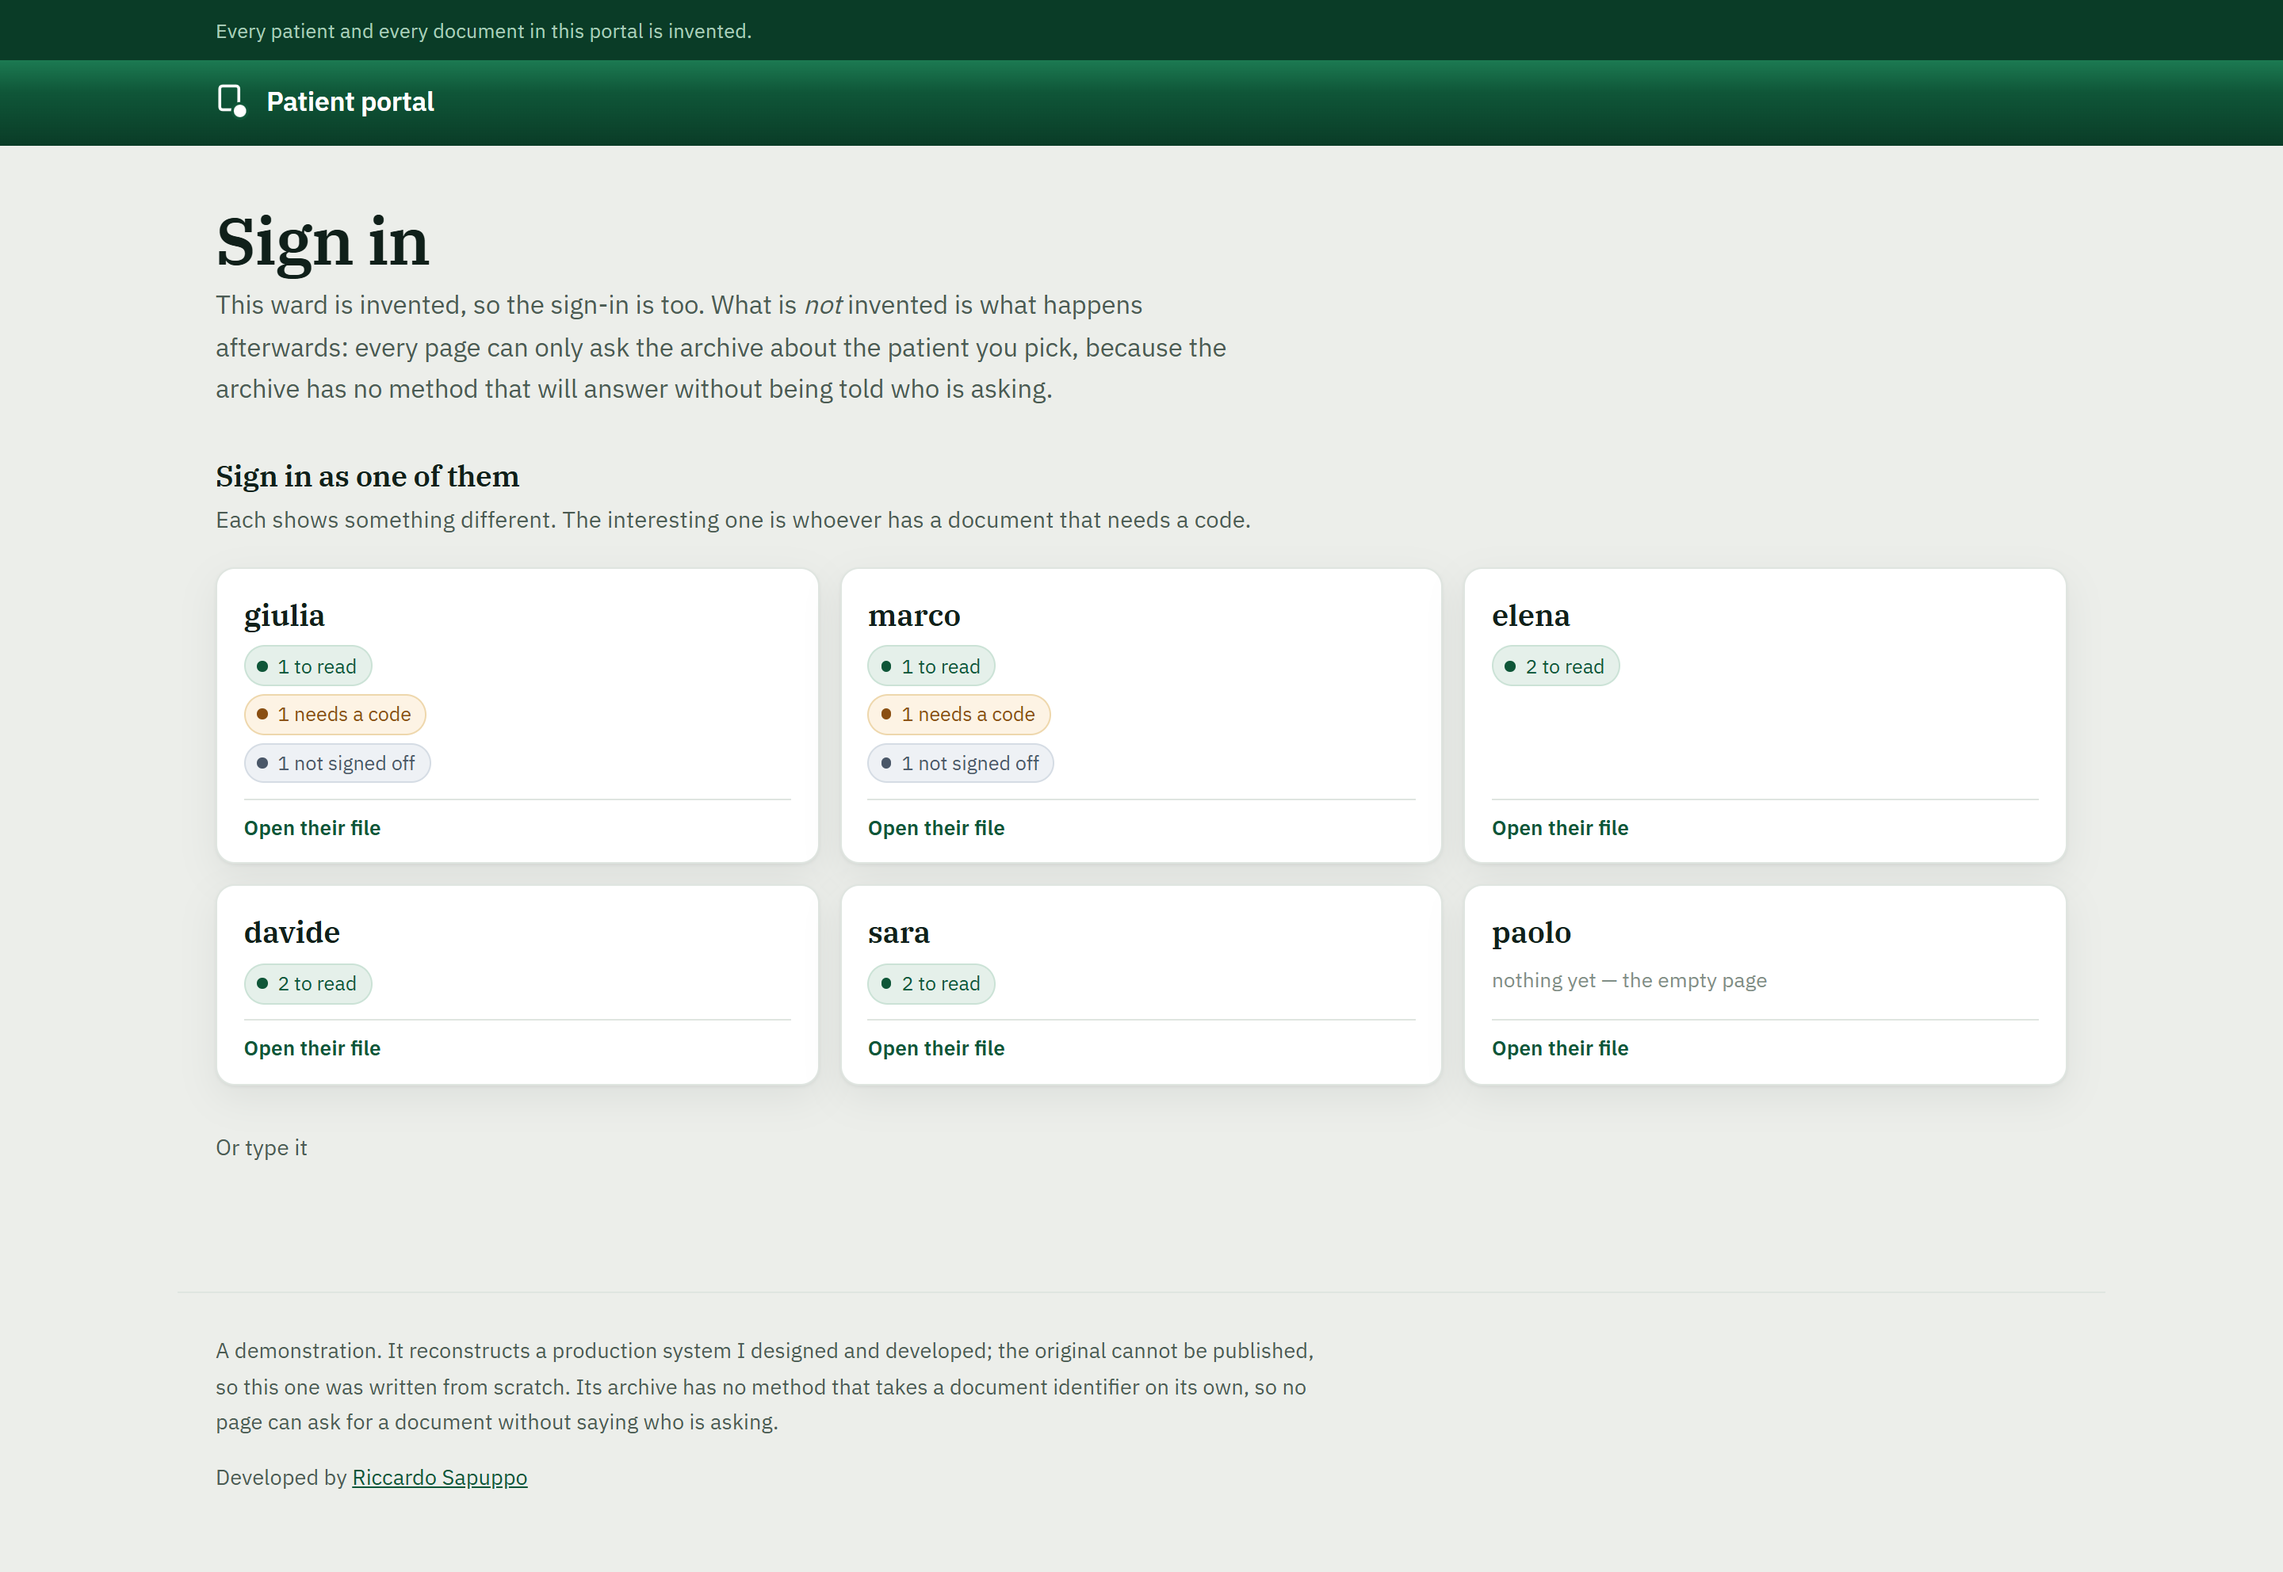
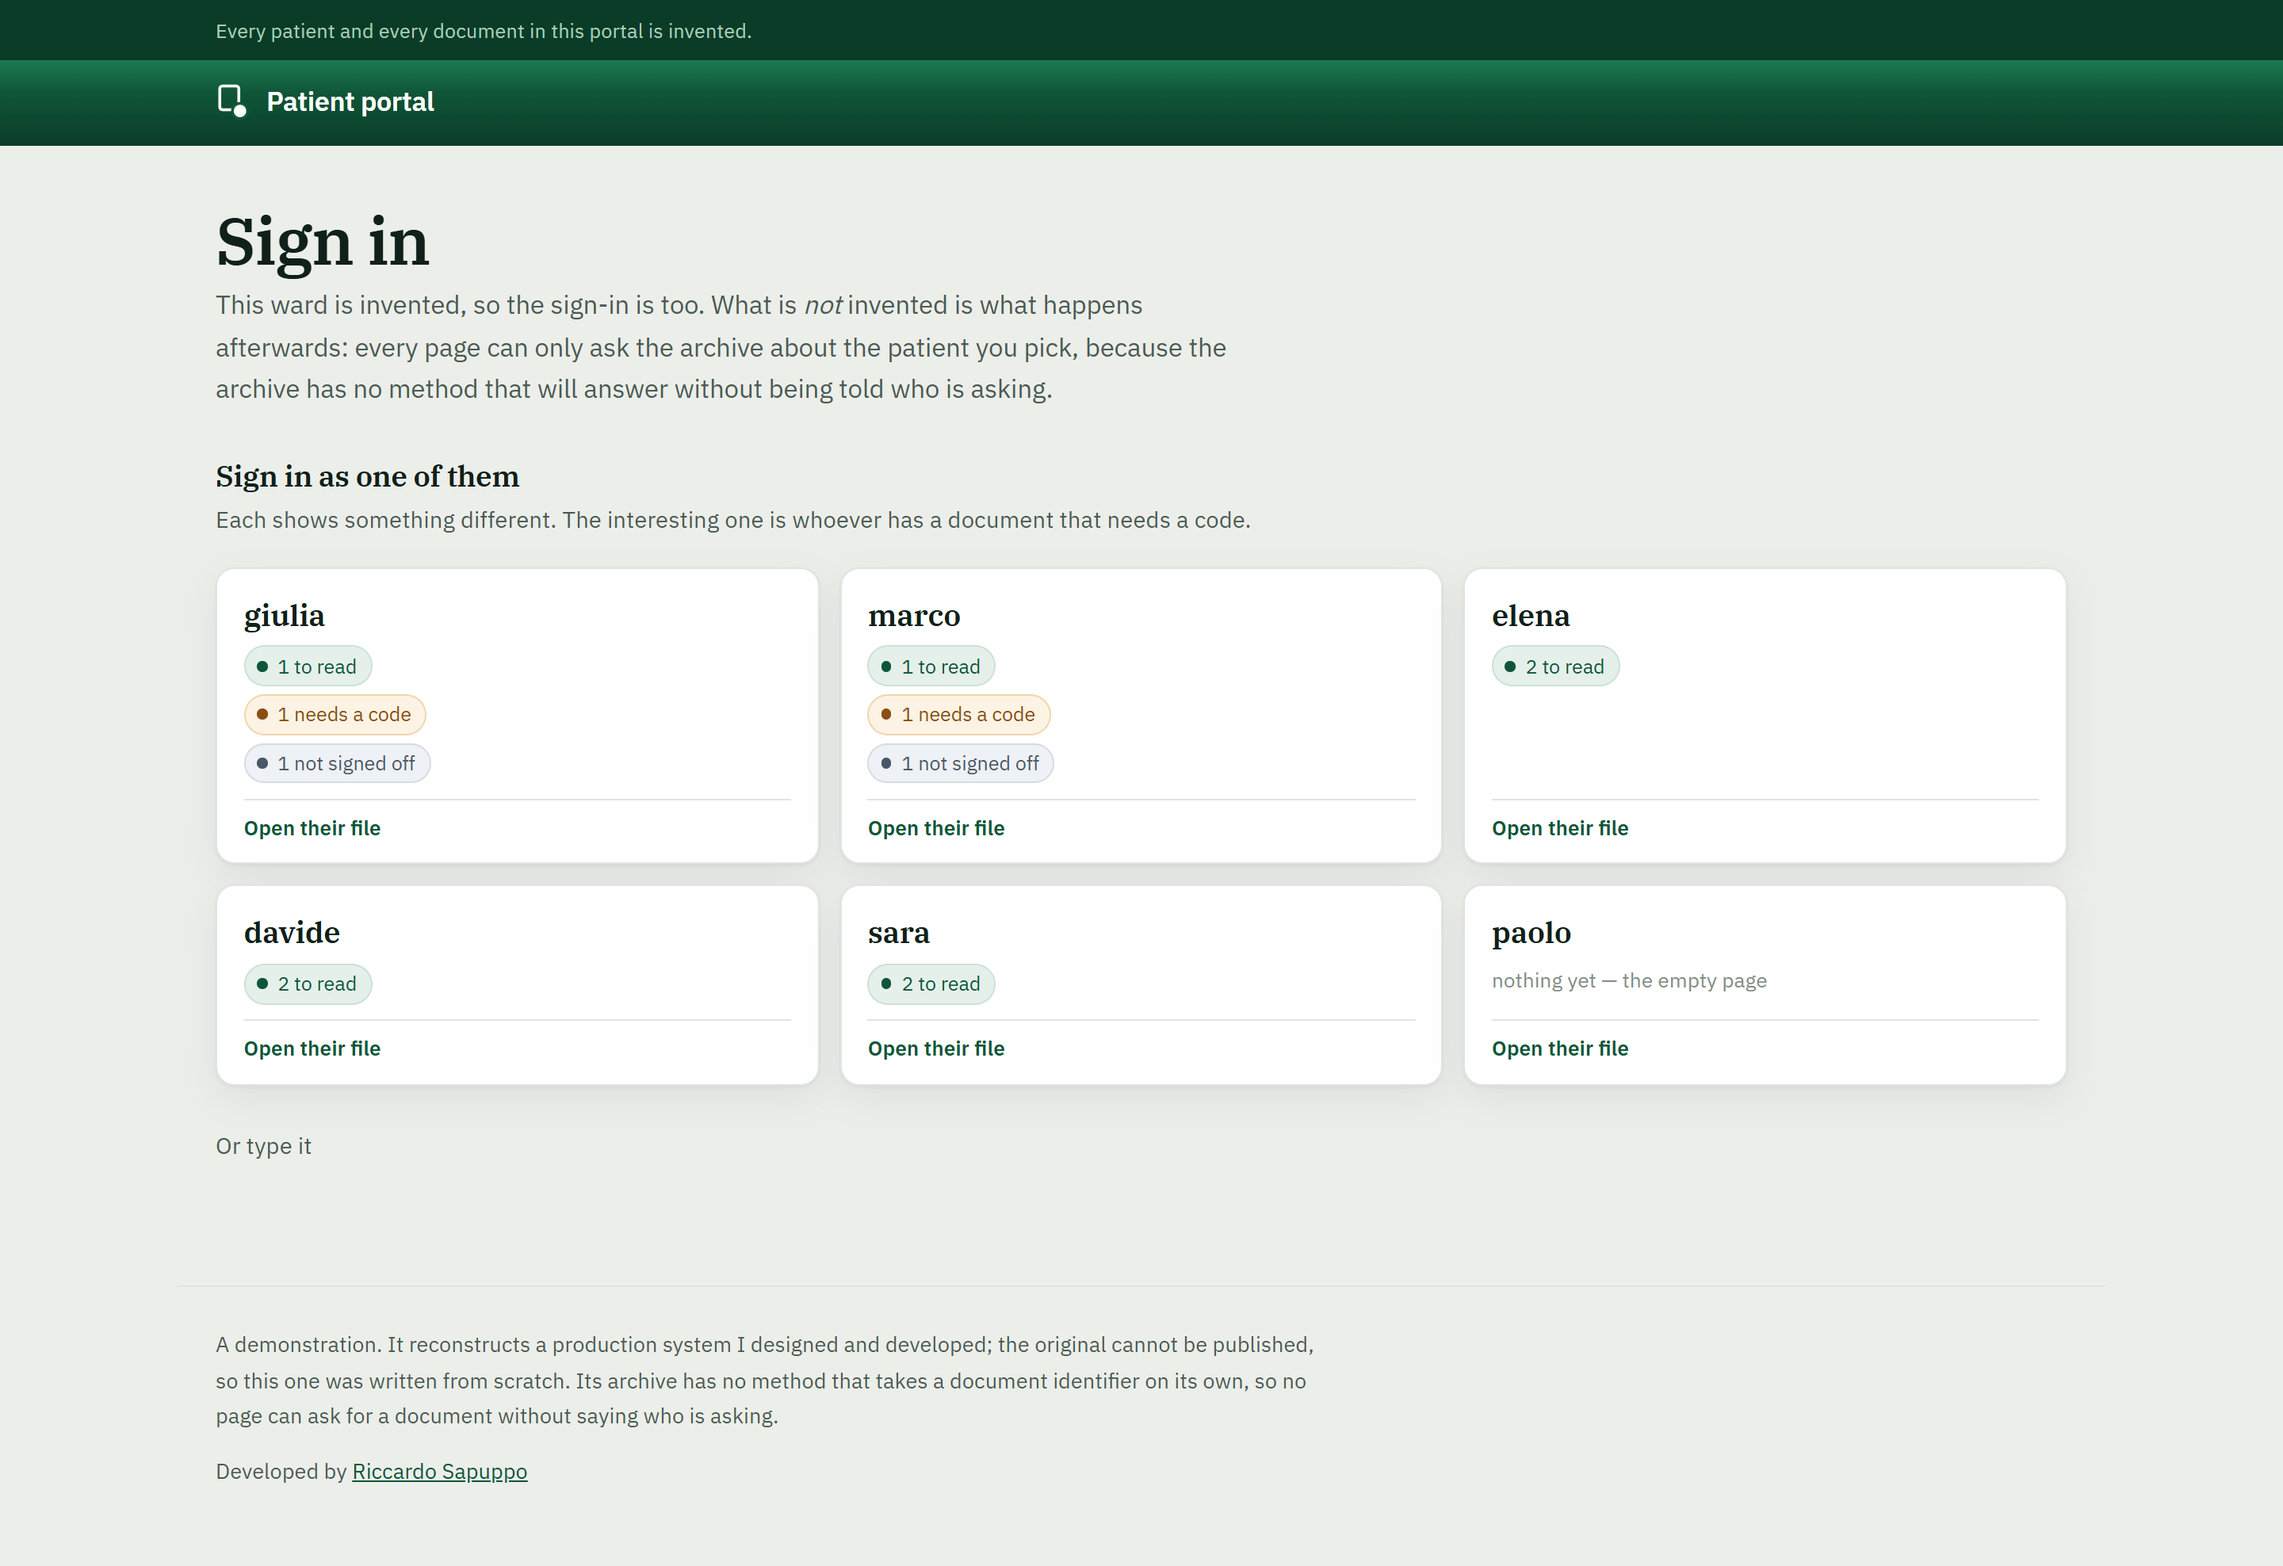
Or type it, behind a button -- but only once there is a script to open it
The typed sign-in was a disclosure triangle that pushed the page around when
it opened. It is a dialog now, arriving over the page with the form in it and
the select already focused: somebody who pressed "Or type it" has said what
they want to do, and the first thing to do is choose a patient.

The order it is written in is the whole of it. The markup ships the dialog
already open and the button hidden; the script closes the dialog and reveals
the button. Written the obvious way round -- a closed dialog and a visible
button -- a browser that never runs the script gets a dead control and no form
at all, and this is the form the checks drive, so losing it would take them
with it. A way in that depends on JavaScript having run is a way in somebody
does not have. With no script the dialog stays open and is given the card's
own frame, so it reads as part of the page rather than as something that
failed to close.

Both dialogs now arrive rather than appear, and it is the same movement for
both: a short rise and a fade, a fifth of a second, answering a press. Nothing
else in this portal moves on its own -- no entrances on scroll, nothing on
load. This is read by people who are worried, and movement they did not ask
for is one more thing to interpret. display and overlay are named in the
transition or the dialog is taken off the screen before the fade has anywhere
to happen, and prefers-reduced-motion turns the whole thing off.
[…]

diff --git a/src/Portal.Web/wwwroot/portal.css b/src/Portal.Web/wwwroot/portal.css
@@ -464,25 +464,176 @@ h1 {
     text-underline-offset: 2px;
 }
 
-/* The typed way, kept: the checks drive it, and so does anybody who wants to. */
-details.byhand {
-    margin-bottom: 1rem;
-}
+/* ── the typed way ───────────────────────────────────────────────────────── */
 
-details.byhand > summary {
-    display: inline-block;
-    cursor: pointer;
+/*
+    The way in for anybody who would rather type it, and for the checks, which
+    drive this form rather than the cards.
+
+    It is a quiet control and stays one: the cards are the way in, and this is
+    the thing beside them. Given a button of the portal's own green it would
+    compete with six cards for the same decision.
+*/
+.typed-open {
     /* Pulled back by its own padding, so the word starts on the page's edge. */
-    margin-left: -0.8rem;
+    margin: 0 0 1rem -0.8rem;
     padding: 0.4rem 0.8rem;
+    border: 0;
     border-radius: 6px;
-    font-size: 0.88rem;
+    background: none;
+    font: 0.92rem var(--ui);
     color: var(--ink-soft);
+    cursor: pointer;
 }
 
-details.byhand > summary:hover {
+.typed-open:hover {
     background: var(--raised);
     color: var(--ink);
+}
+
+.typed {
+    width: min(26rem, 94vw);
+    max-width: none;
+    padding: 0;
+    border: 0;
+    border-radius: 14px;
+    background: var(--card);
+    box-shadow: var(--lift-high);
+    overflow: hidden;
+}
+
+.typed-bar {
+    display: flex;
+    align-items: center;
+    justify-content: space-between;
+    gap: 1rem;
+    padding: 0.85rem 1.1rem;
+    background: var(--seal);
+    background-image: linear-gradient(180deg, var(--seal-lit) 0%, var(--seal) 100%);
+    color: #fff;
+}
+
+.typed-what {
+    font: 600 1.05rem/1.25 var(--read);
+    letter-spacing: -0.01em;
+}
+
+.typed-shut {
+    padding: 0.34rem 0.9rem;
+    font: 600 0.84rem var(--ui);
+    color: #fff;
+    background: rgb(255 255 255 / 12%);
+    border: 1px solid rgb(255 255 255 / 30%);
+    border-radius: 6px;
+    cursor: pointer;
+}
+
+.typed-shut:hover {
+    background: rgb(255 255 255 / 22%);
+}
+
+.typed-body {
+    padding: 1.2rem;
+}
+
+.typed-body form.stack {
+    margin: 0;
+    padding: 0;
+    max-width: none;
+    border: 0;
+    background: none;
+    box-shadow: none;
+}
+
+.typed-body .lead {
+    margin: 1.1rem 0 0;
+    font-size: 0.88rem;
+}
+
+/*
+    With no script the dialog is left open, and an open dialog is a block on the
+    page. It is given the card's own frame then, so it reads as part of the page
+    rather than as something that failed to close.
+*/
+.typed[open]:not(:modal) {
+    margin: 0 0 1.5rem;
+    border: 1px solid var(--line);
+    box-shadow: var(--lift);
+}
+
+/* ── how the two dialogs arrive ──────────────────────────────────────────── */
+
+/*
+    Motion that answers a press, which is the only kind here.
+
+    A dialog that appears instantly is a page that changed while you were
+    looking at it; a short rise and fade says where it came from. Nothing else
+    in this portal moves on its own -- no entrances on scroll, nothing on load.
+    This is read by people who are worried, and movement they did not ask for
+    is one more thing to interpret.
+
+    display and overlay have to be named in the transition, or the dialog is
+    taken off the screen before the fade has anywhere to happen.
+*/
+.viewer,
+.typed {
+    opacity: 0;
+    transform: translateY(0.6rem) scale(0.985);
+    transition:
+        opacity 0.18s ease,
+        transform 0.18s cubic-bezier(0.2, 0.8, 0.3, 1),
+        overlay 0.18s ease allow-discrete,
+        display 0.18s ease allow-discrete;
+}
+
+.viewer[open],
+.typed[open] {
+    opacity: 1;
+    transform: none;
+}
+
+@starting-style {
+    .viewer[open],
+    .typed[open] {
+        opacity: 0;
+        transform: translateY(0.6rem) scale(0.985);
+    }
+}
+
+.viewer::backdrop,
+.typed::backdrop {
+    background: rgb(4 18 12 / 0%);
+    transition:
+        background 0.18s ease,
+        overlay 0.18s ease allow-discrete,
+        display 0.18s ease allow-discrete;
+}
+
+.viewer[open]::backdrop,
+.typed[open]::backdrop {
+    background: rgb(4 18 12 / 55%);
+}
+
+@starting-style {
+    .viewer[open]::backdrop,
+    .typed[open]::backdrop {
+        background: rgb(4 18 12 / 0%);
+    }
+}
+
+/* Asked for, and meant: the dialog still arrives, it simply arrives at once. */
+@media (prefers-reduced-motion: reduce) {
+    .viewer,
+    .typed,
+    .viewer::backdrop,
+    .typed::backdrop {
+        transition: none;
+    }
+
+    .viewer,
+    .typed {
+        transform: none;
+    }
 }
 
 form.stack {
@@ -677,10 +828,6 @@ a.open.guarded:hover {
     background: var(--card);
     box-shadow: var(--lift-high);
     overflow: hidden;
-}
-
-.viewer::backdrop {
-    background: rgb(4 18 12 / 55%);
 }
 
 .viewer[open] {

diff --git a/src/Portal.Web/wwwroot/typed.js b/src/Portal.Web/wwwroot/typed.js
@@ -1,0 +1,29 @@
+/*
+    The typed sign-in, put behind a button.
+
+    The markup ships the form on the page, inside a dialog that is already
+    open, with the button that would reveal it hidden. This script does it the
+    other way round: it closes the dialog and shows the button. So the order of
+    events is that the form works first and is tidied away second, and a
+    browser that never runs this is left with a page that works rather than a
+    button that does nothing.
+*/
+
+(() => {
+  const typed = document.querySelector('.typed');
+  const open = document.querySelector('.typed-open');
+  if (!typed || !open || typeof typed.showModal !== 'function') return;
+
+  typed.removeAttribute('open');
+  open.hidden = false;
+
+  open.addEventListener('click', () => {
+    typed.showModal();
+
+    // The select, not the dialog: somebody who asked to type it has said what
+    // they want to do, and the first thing to do is choose a patient.
+    typed.querySelector('select')?.focus();
+  });
+
+  typed.querySelector('.typed-shut').addEventListener('click', () => typed.close());
+})();

diff --git a/src/Portal.Tests/Choosing.cs b/src/Portal.Tests/Choosing.cs
@@ -93,6 +93,39 @@ public class Choosing : IClassFixture<WebApplicationFactory<Program>>
         Assert.Equal(cards.Count, Times(page, "Open their file"));
     }
 
+    [Fact]
+    public async Task TheTypedWayIsNotBehindAScript()
+    {
+        // The cards are the way in and the typed form is the thing beside
+        // them, now behind a button -- but behind a button only once there is
+        // a script to open it with.
+        //
+        // The markup therefore ships the dialog already open and the button
+        // hidden, and the script does it the other way round. Written the
+        // obvious way round instead, a browser that never runs the script gets
+        // a page with a dead button on it and no form at all: a way in that
+        // depends on JavaScript having run is a way in somebody does not have.
+        //
+        // This is what the checks in Reaching drive, so losing it would not
+        // merely lose a way in -- it would take the checks with it.
+        using var browser = portal.CreateClient();
+        var page = await browser.GetStringAsync("/SignIn");
+
+        // Open in the markup, so it is on the page before anything runs.
+        Assert.Contains("<dialog class=\"typed\" open>", page, StringComparison.Ordinal);
+
+        // And the opener hidden in the markup, so nothing dead is ever shown.
+        Assert.Contains("class=\"typed-open\" hidden", page, StringComparison.Ordinal);
+
+        // The form itself, with everybody on it and somewhere to type.
+        foreach (var who in Ward.Patients)
+        {
+            Assert.Contains($"<option value=\"{who}\">", page, StringComparison.Ordinal);
+        }
+
+        Assert.Contains("type=\"password\"", page, StringComparison.Ordinal);
+    }
+
     private static int Times(string page, string phrase)
     {
         var found = 0;

diff --git a/README.md b/README.md
@@ -48,8 +48,15 @@ will show. Two have a report that asks for a code, one has nothing at all.
 There is nothing to remember and nothing to type. The password is `ward`, it is
 in this file and in the source, and it is in the form — a password nobody can
 use on anything is not a credential, and making somebody type it teaches them
-nothing about the part of this that is real. The typed form is still there,
-folded up, because the checks drive it.
+nothing about the part of this that is real.
+
+**Or type it** is still there, behind a button, because the checks drive that
+form rather than the cards. Behind a button only once there is a script to open
+it with, though: the page ships the dialog already open and the button hidden,
+and the script does it the other way round. Written the obvious way round, a
+browser that never runs the script would get a dead button and no form — and a
+way in that depends on JavaScript having run is a way in somebody does not
+have.
 
 Then try to reach another patient's report. The argument below reads better once
 you have.
@@ -116,7 +123,7 @@ dotnet --version        # 9.0.317 here; any 9.0.x will do
 ```
 
 ```
-dotnet test src/Portal.Tests            # 57 checks
+dotnet test src/Portal.Tests            # 58 checks
 dotnet run  --project src/Portal.Measure    # the five claims
 dotnet run  --project src/Portal.Web        # the portal, on http://localhost:5000
 ```
@@ -142,7 +149,7 @@ it, and without it `dotnet test` would open a browser per test.
 | `Portal.Store` | The archive, in SQLite, where the binding is visible in a `WHERE` clause. And the invented ward. |
 | `Portal.Measure` | Runs the ward through both and prints the difference. Exits non-zero when a claim stops holding, or when the prose in this file stops agreeing with it. |
 | `Portal.Web` | ASP.NET Core, Razor Pages, a cookie. |
-| `Portal.Tests` | 57 checks: the archive asked directly, the portal driven over HTTP, three that hold the sign-in cards to the ward they describe, three that keep a browser from showing yesterday's stylesheet, four that read the reports back out of their own bytes, two about a browser with two of its pages open, two that keep every way out of the list a two-way street, two that fetch the typeface and the mark rather than assuming they arrived, four that are about the shape of the code rather than what it does, and one that holds this file to the number in this cell. |
+| `Portal.Tests` | 58 checks: the archive asked directly, the portal driven over HTTP, four that hold the sign-in page to the ward it describes, three that keep a browser from showing yesterday's stylesheet, four that read the reports back out of their own bytes, two about a browser with two of its pages open, two that keep every way out of the list a two-way street, two that fetch the typeface and the mark rather than assuming they arrived, four that are about the shape of the code rather than what it does, and one that holds this file to the number in this cell. |
 | `tools/screenshots.sh` | The two pictures above, taken from the running portal rather than by hand. |
 
 ### The ward is invented, and that is not a detail
